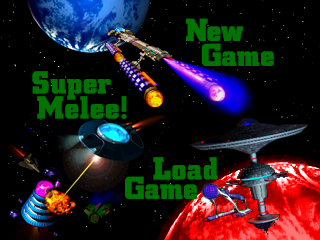
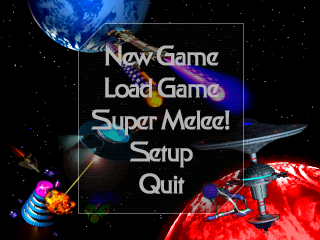
New Main Menu graphics from MarkVera, Paxtez, Nic (#393)
Setup is nonfunctional at present.

git-svn-id: svn://svn.code.sf.net/p/sc2/code/trunk@1092 8092fc87-c524-0410-9efc-e669fe64eaf9

Changed region(s): [[0.0938, 0.0583, 0.875, 0.9042], [0.2188, 0.7292, 0.25, 0.7583]]

diff --git a/sc2/src/sc2code/restart.c b/sc2/src/sc2code/restart.c
@@ -42,7 +42,9 @@ enum
 {
 	START_NEW_GAME = 0,
 	LOAD_SAVED_GAME,
-	PLAY_SUPER_MELEE
+	PLAY_SUPER_MELEE,
+	SETUP_GAME,
+	QUIT_GAME
 };
 
 static void
@@ -123,6 +125,8 @@ else if (InputState & DEVICE_EXIT) return (FALSE);
 	}
 	else if (CurrentMenuState.select)
 	{
+		BYTE fade_buf[1];
+
 		switch (pMS->CurState)
 		{
 			case LOAD_SAVED_GAME:
@@ -135,6 +139,20 @@ else if (InputState & DEVICE_EXIT) return (FALSE);
 				break;
 			case PLAY_SUPER_MELEE:
 				GLOBAL (CurrentActivity) = SUPER_MELEE;
+				break;
+			case SETUP_GAME:
+				PlaySoundEffect (SetAbsSoundIndex (MenuSounds, 2),
+						0, NotPositional (), NULL, GAME_SOUND_PRIORITY);	
+				InTime = GetTimeCounter ();
+				return TRUE;
+				break;
+			case QUIT_GAME:
+				PlaySoundEffect (SetAbsSoundIndex (MenuSounds, 1),
+						0, NotPositional (), NULL, GAME_SOUND_PRIORITY);
+				fade_buf[0] = FadeAllToBlack;
+				SleepThreadUntil (XFormColorMap ((COLORMAPPTR)fade_buf, ONE_SECOND / 2));
+
+				GLOBAL (CurrentActivity) = CHECK_ABORT;
 				break;
 		}
 
@@ -149,17 +167,16 @@ else if (InputState & DEVICE_EXIT) return (FALSE);
 		BYTE NewState;
 
 		NewState = pMS->CurState;
-		if (CurrentMenuState.left || CurrentMenuState.up)
+		if (CurrentMenuState.up)
 		{
 			if (NewState-- == START_NEW_GAME)
-				NewState = PLAY_SUPER_MELEE;
+				NewState = QUIT_GAME;
 		}
-		else if (CurrentMenuState.right || CurrentMenuState.down)
+		else if (CurrentMenuState.down)
 		{
-			if (NewState++ == PLAY_SUPER_MELEE)
+			if (NewState++ == QUIT_GAME)
 				NewState = START_NEW_GAME;
 		}
-
 		if (NewState != pMS->CurState)
 		{
 			DrawRestartMenu (pMS->CurState, NewState, pMS->CurFrame);
